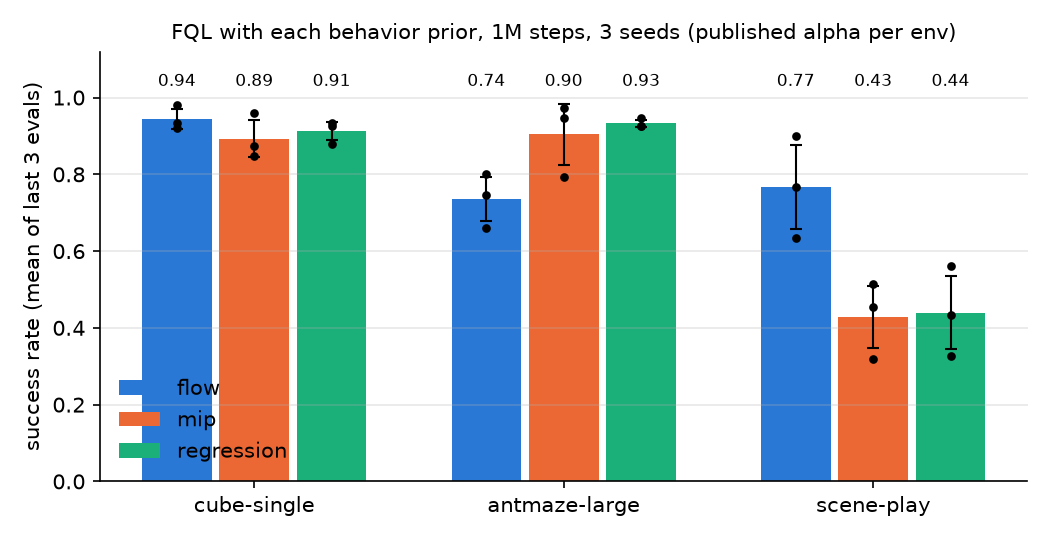
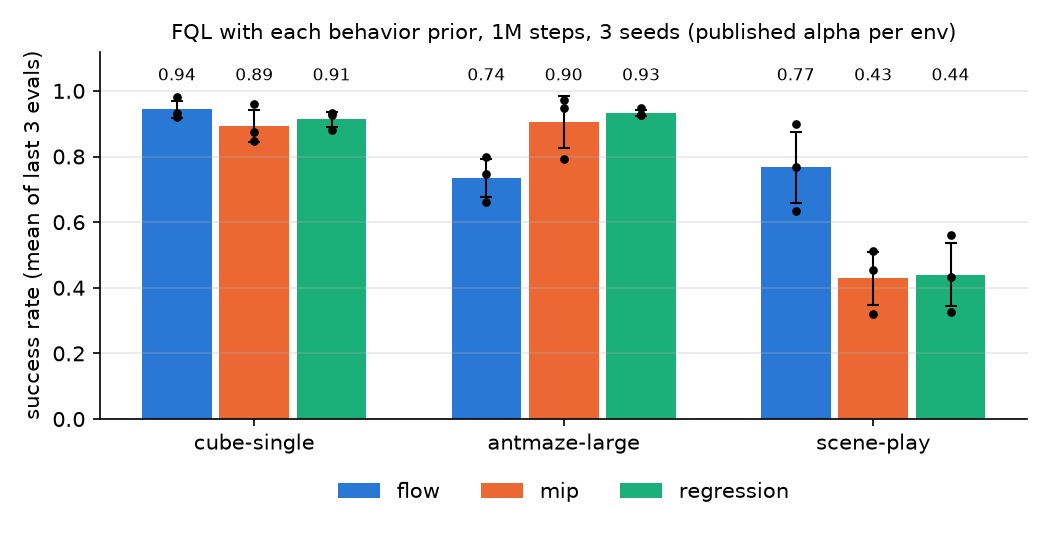
analysis/plot_summary.py: bar chart of final success per prior across envs (3 seeds)

diff --git a/analysis/plot_summary.py b/analysis/plot_summary.py
@@ -1,0 +1,52 @@
+"""Bar chart of final success per prior across envs (mean over seeds, with per-seed dots).
+
+    python analysis/plot_summary.py midway   # reads results/midway/, writes results/midway/summary.png
+
+Per-seed score = mean of the last 3 evals (less noisy than the single final eval); bar = mean over seeds,
+error bar = std over seeds, dots = individual seeds.
+"""
+
+import sys
+
+import matplotlib.pyplot as plt
+import numpy as np
+from plot_eval import COLORS, PRIORS, load
+
+ENV_LABELS = {
+    'cube-single-play-singletask-v0': 'cube-single',
+    'antmaze-large-navigate-singletask-v0': 'antmaze-large',
+    'scene-play-singletask-v0': 'scene-play',
+}
+
+
+def main(group):
+    runs = load(group)
+    envs = [e for e in ENV_LABELS if any(k[0] == e for k in runs)]
+    fig, ax = plt.subplots(figsize=(7, 3.6))
+    width = 0.25
+    for j, prior in enumerate(PRIORS):
+        xs = np.arange(len(envs)) + (j - 1) * width
+        for x, env in zip(xs, envs):
+            scores = [np.mean([s for _, s in r['eval'][-3:]]) for r in runs.get((env, prior), [])]
+            if not scores:
+                continue
+            ax.bar(x, np.mean(scores), width * 0.9, color=COLORS[prior], label=prior if env == envs[0] else None)
+            ax.errorbar(x, np.mean(scores), yerr=np.std(scores), color='black', capsize=3, lw=1)
+            ax.scatter(np.full(len(scores), x), scores, color='black', s=10, zorder=3)
+            ax.text(x, 1.02, f'{np.mean(scores):.2f}', ha='center', va='bottom', fontsize=8)
+    ax.set_xticks(np.arange(len(envs)))
+    ax.set_xticklabels([ENV_LABELS[e] for e in envs])
+    ax.set_ylim(0, 1.12)
+    ax.set_ylabel('success rate (mean of last 3 evals)')
+    ax.set_title('FQL with each behavior prior, 1M steps, 3 seeds (published alpha per env)', fontsize=10)
+    ax.legend(loc='upper center', bbox_to_anchor=(0.5, -0.12), ncol=3, frameon=False)
+    ax.spines[['top', 'right']].set_visible(False)
+    ax.grid(axis='y', alpha=0.3)
+    out = f'results/{group}/summary.png'
+    fig.tight_layout()
+    fig.savefig(out, dpi=150)
+    print('wrote', out)
+
+
+if __name__ == '__main__':
+    main(sys.argv[1])
